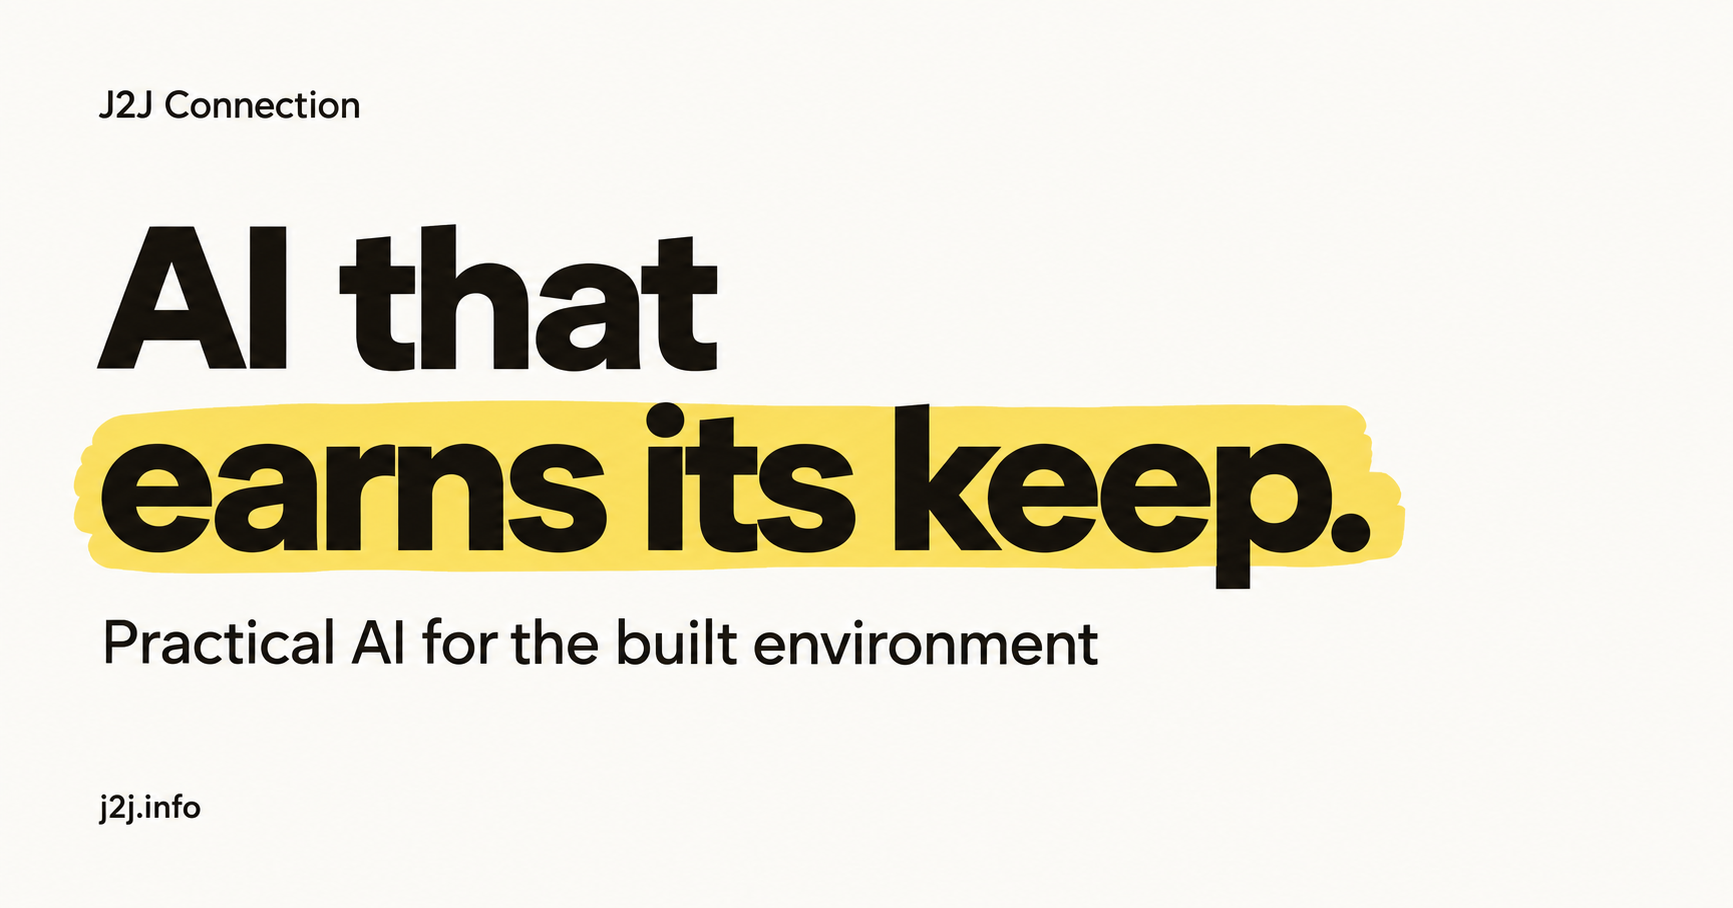
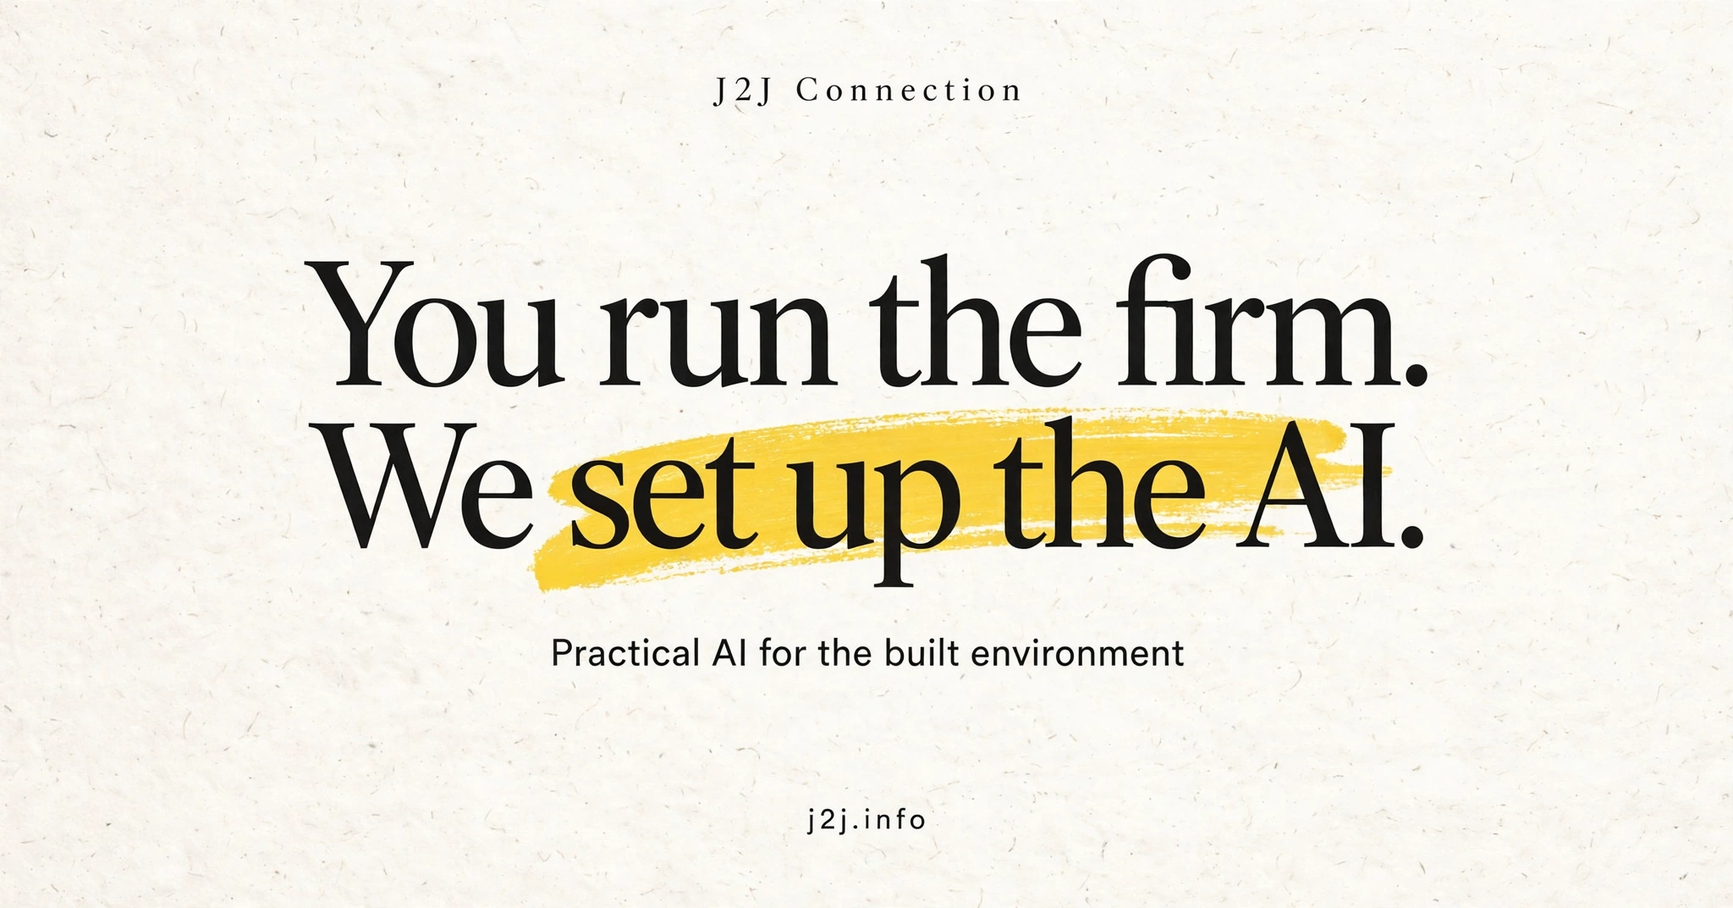
Hero tagline: You run the firm. We set up the AI.

diff --git a/nextjs-site/src/components/Hero.tsx b/nextjs-site/src/components/Hero.tsx
@@ -7,7 +7,9 @@ export default function Hero() {
     <section className="px-6 lg:px-8">
       <div className="mx-auto max-w-5xl py-24 md:py-36">
         <h1 className="max-w-3xl font-display text-4xl font-extrabold leading-[1.05] tracking-tight md:text-7xl">
-          AI that <Highlight>earns its keep.</Highlight>
+          You run the firm.
+          <br />
+          We <Highlight>set up the AI.</Highlight>
         </h1>
         <p className="mt-8 max-w-xl text-lg leading-relaxed text-muted">
           J2J helps owners of architecture, design, construction, and real

diff --git a/nextjs-site/src/app/layout.tsx b/nextjs-site/src/app/layout.tsx
@@ -35,7 +35,7 @@ export const metadata: Metadata = {
     url: 'https://j2j.info/',
     siteName: 'J2J Connection',
     type: 'website',
-    images: [{ url: 'https://j2j.info/og.png', width: 1733, height: 908, alt: 'J2J Connection. AI that earns its keep. Practical AI for the built environment.' }],
+    images: [{ url: 'https://j2j.info/og.png', width: 1733, height: 908, alt: 'J2J Connection. You run the firm. We set up the AI. Practical AI for the built environment.' }],
   },
   twitter: {
     card: 'summary_large_image',

diff --git a/CLAUDE.md b/CLAUDE.md
@@ -37,7 +37,7 @@ nextjs-site/
 │   │   └── globals.css  # Design tokens (paper/ink/marker), highlight-swipe animation
 │   ├── components/
 │   │   ├── Header.tsx     # Fixed nav with mobile hamburger menu
-│   │   ├── Hero.tsx       # "AI that earns its keep." with Highlight marker swipe
+│   │   ├── Hero.tsx       # "You run the firm. We set up the AI." with Highlight marker swipe
 │   │   ├── Highlight.tsx  # Reusable yellow marker-highlight wrapper
 │   │   ├── Services.tsx   # "What we do" - three-step process (id="services")
 │   │   ├── CaseStudy.tsx  # featured client case study + two "More work" cards on a pale-yellow band (id="work")
@@ -77,7 +77,7 @@ nextjs-site/
 
 - **Discovery routes**: `/`, `/j2j-time/`, `/guides/automatic-billable-time-tracking/`, `/case-studies/billable-time/`, and `/privacy/`, all self-canonical and in the sitemap. `/j2j-time/thanks/` is noindex and excluded from the sitemap. Retired demo URLs preserve their redirects. Supporting phone app policies remain independent.
 - **Light design system**: paper background, ink text, marker-yellow highlight accents (see `globals.css` tokens).
-- **Highlight swipe**: a one-time CSS animation reveals the yellow highlight behind "earns its keep." on load; respects `prefers-reduced-motion`.
+- **Highlight swipe**: a one-time CSS animation reveals the yellow highlight behind "set up the AI." on load; respects `prefers-reduced-motion`.
 - **Mobile-first nav**: fixed header, hamburger menu on small screens, anchor links with `scroll-mt-20` so the fixed header never covers a section heading.
 - **Product interest form**: J2J Time has a native POST form using Customer.io's documented public forms action. It works without a JavaScript SDK or frontend API key. It collects email, optional company, product-update consent and sanitized referral labels. Requesting access starts a conversation about fit and onboarding, not a paid account or immediate connector setup. Consulting contact remains Calendly or email.
 - **Static export**: GitHub Pages compatible build, no server-side features, images unoptimized by design.
@@ -111,6 +111,11 @@ nextjs-site/
 **Status**: Built-environment positioning live in production (deployed 2026-09-10)
 
 ## Changelog
+
+### 2026-11-24 (hero tagline, draft)
+
+- Hero headline changed from "AI that earns its keep." to "You run the firm. We set up the AI." (Hayden's pick, Nov 24, 2026, from a tagline brainstorm where "earns its keep" was the incumbent). Two-line lockup, marker swipe now behind "set up the AI." The subhead paragraph is unchanged, so the owner-audience and ChatGPT/Claude copy pins still hold.
+- `public/og.png` regenerated with the new headline (same generation pattern as the 2026-10-11 card: paper, ink, marker yellow, exact text "J2J Connection", the headline, "Practical AI for the built environment", "j2j.info", resized to 1733x908), and the layout og alt text updated to match.
 
 ### 2026-11-24 (site polish, draft)
 
